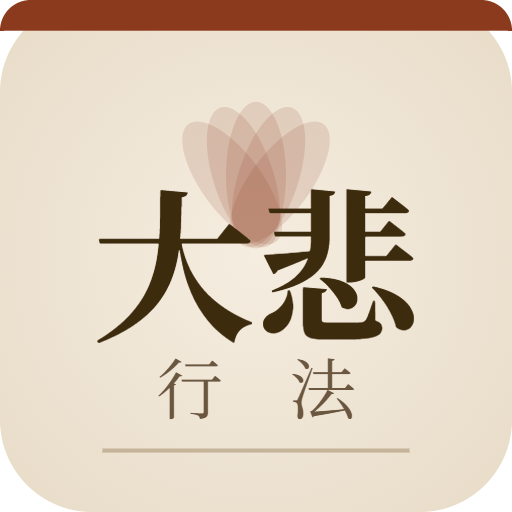
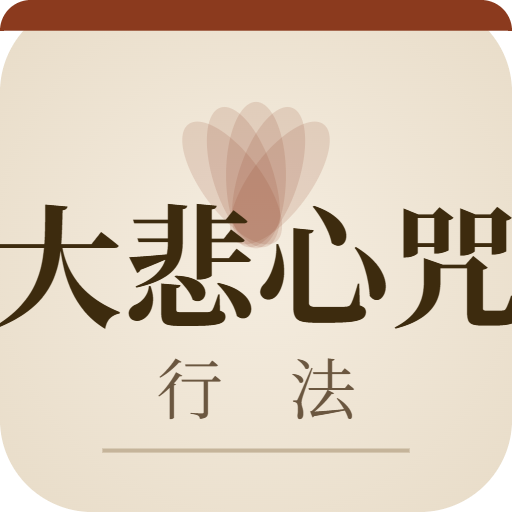
圖示文字改為「大悲心咒／行法」，桌面名稱改為「大悲心咒行法」

Changed region(s): [[0.0, 0.3438, 1.0, 0.6875]]

diff --git a/dabeizhan_practice.html b/dabeizhan_practice.html
@@ -8,7 +8,7 @@
 <link rel="apple-touch-icon" href="apple-touch-icon.png">
 <meta name="apple-mobile-web-app-capable" content="yes">
 <meta name="apple-mobile-web-app-status-bar-style" content="black-translucent">
-<meta name="apple-mobile-web-app-title" content="大悲行法">
+<meta name="apple-mobile-web-app-title" content="大悲心咒行法">
 <meta name="theme-color" content="#3d2b0e">
 <style>
 :root{